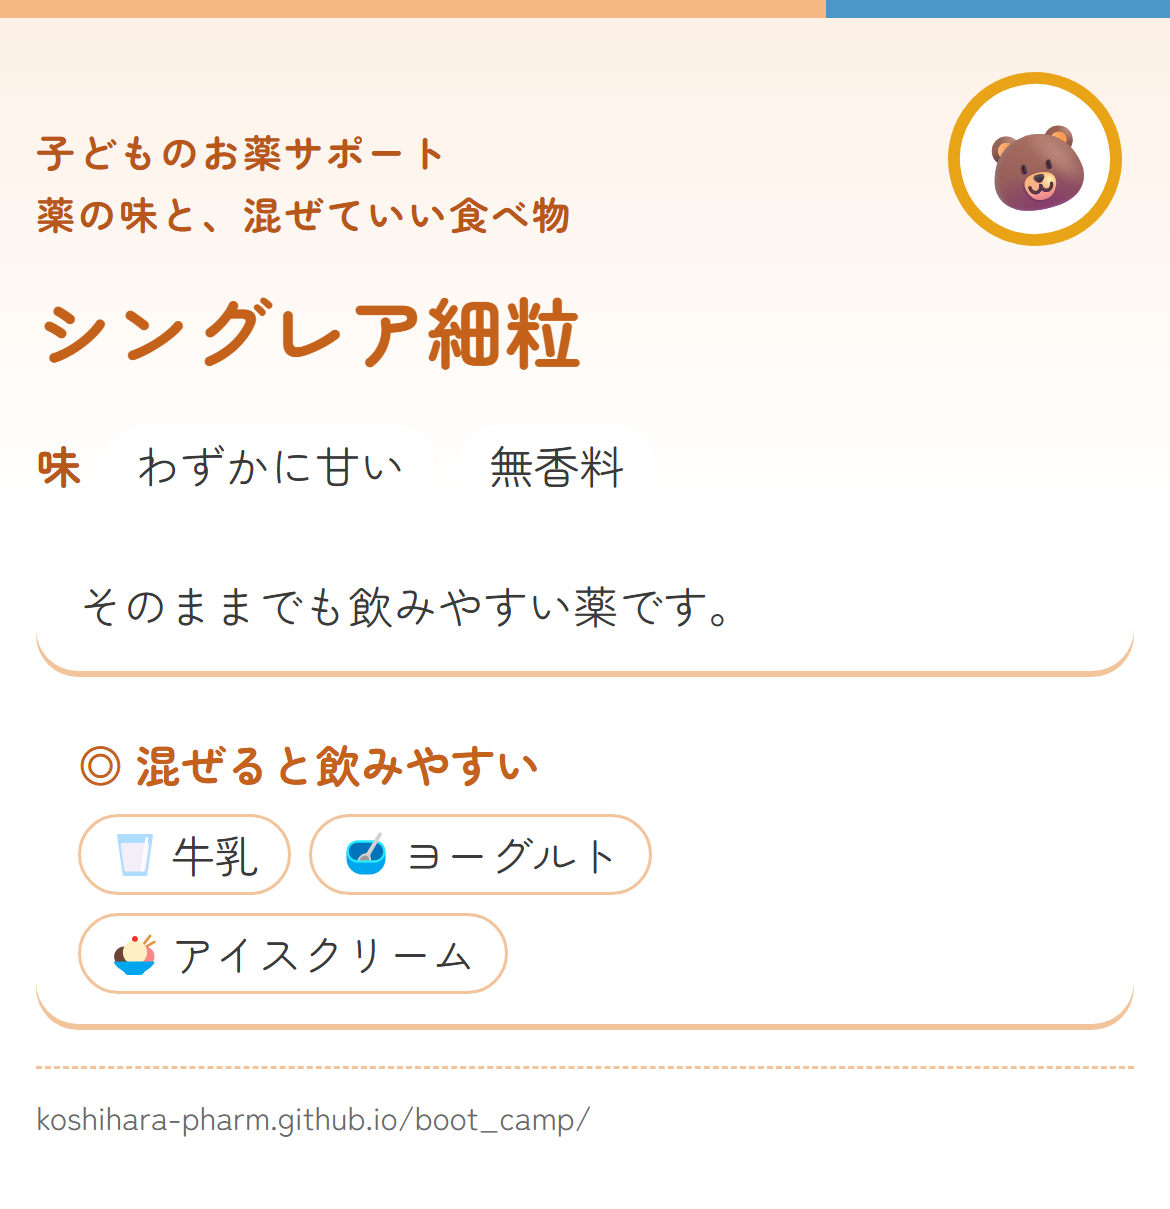
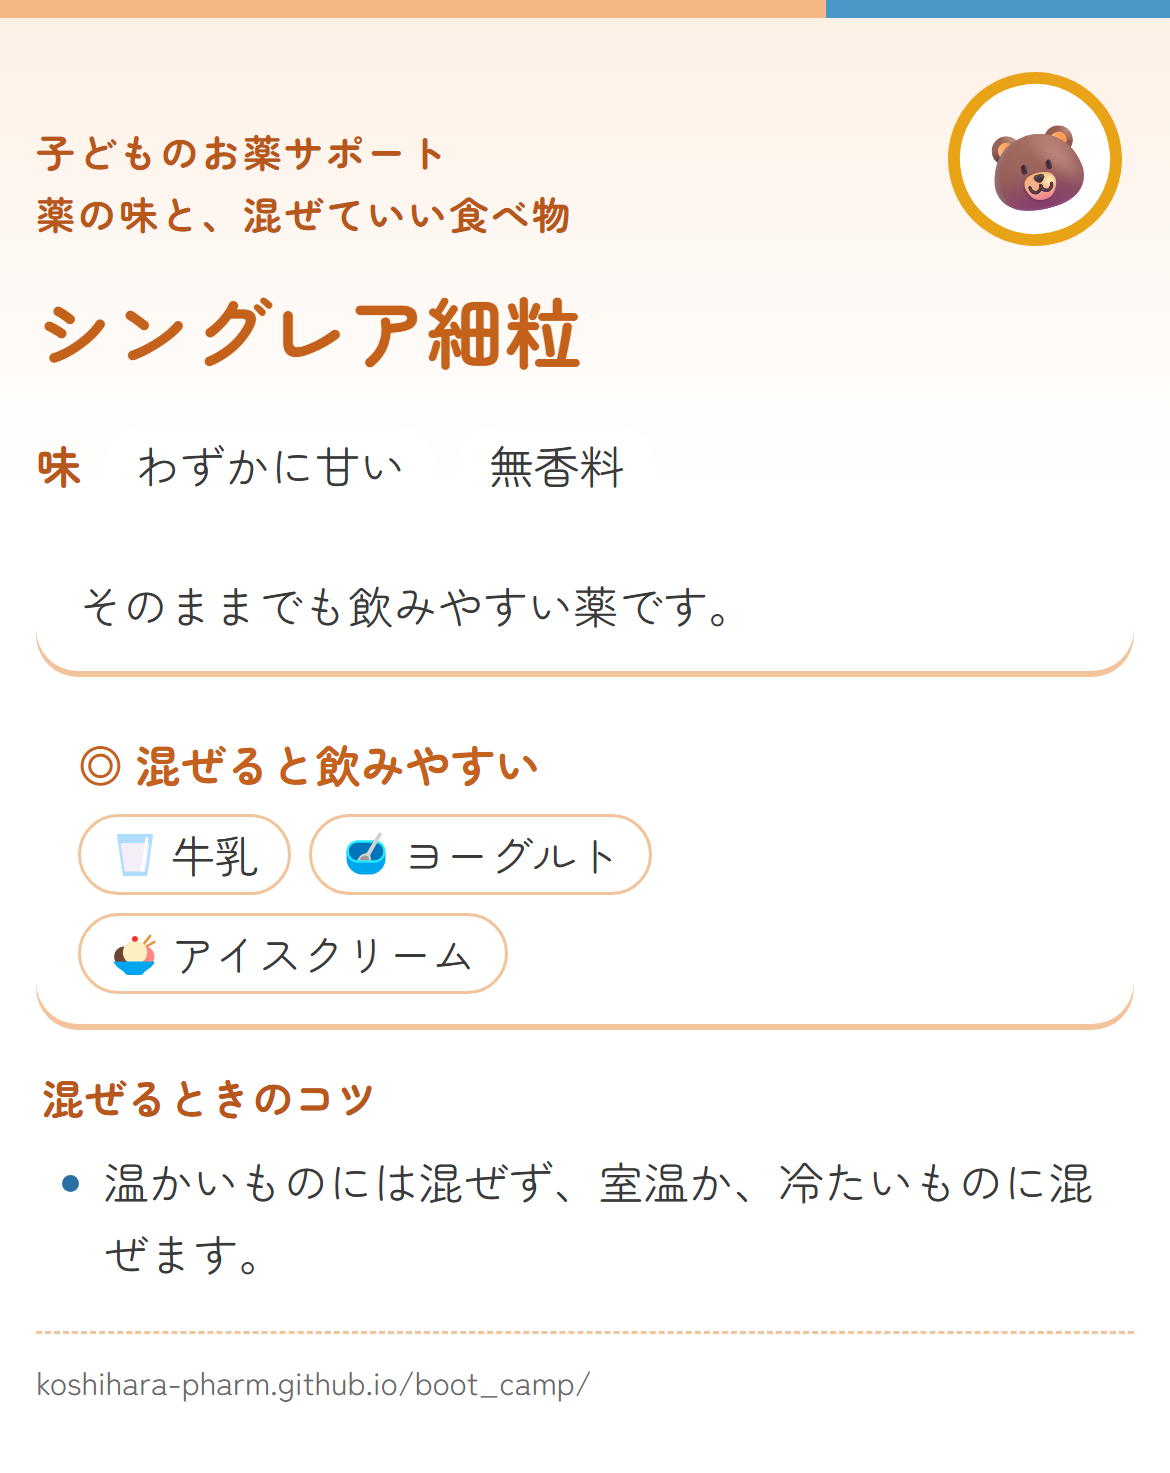
シングレア細粒とキプレス細粒のコツに「温かいものには混ぜない」を足す
取りこぼしの対応表で、薬剤師が「足す」と答えた（2026-11-27）。
シングレア細粒は帯広の表の備考、キプレス細粒は添付文書 14.1.2（室温以下の
ものと混ぜる）と、同じ成分のシングレア細粒の表の備考をもとにした。
保存用の画像（card/drug）の2枚も作り直した。

diff --git a/data.js b/data.js
@@ -367,6 +367,7 @@ const FACT_REFS = {
   kurumiMix: { name: "くるみ薬局「粉薬と食品の味ののみ合わせ一覧」（薬剤師の記事。2018-08-08）", url: "https://kurumi-pharmacy.jp/2018/08/08/%e7%b2%89%e8%96%ac%e3%81%a8%e9%a3%9f%e5%93%81%e3%81%ae%e5%91%b3%e3%81%ae%e3%81%ae%e3%81%bf%e5%90%88%e3%82%8f%e3%81%9b%e4%b8%80%e8%a6%a7/" },
   // 2026-11-09 に足した。帯広の表の記号: ○ 飲みやすい、△ ふつう・変わらない、× 飲みにくい（成育の ●▲× と同じ意味なので、○ を easy、△ を good にした）
   obihiro: { name: "帯広厚生病院 薬剤部「お薬の飲み合わせ表」（2024年12月）", url: "https://www.dou-kouseiren.com/byouin/obihiro/about/vt1bv7000000987n-att/fvprkl0000005bkm.pdf" },
+  kipresLabel: { name: "キプレス細粒4mg 添付文書（杏林製薬、2024年5月改訂 第2版）", url: "https://www.pmda.go.jp/PmdaSearch/iyakuDetail/231099_4490026C1021_2_04" },
   mucosolvanLabel: { name: "小児用ムコソルバンDS1.5% 添付文書（帝人ファーマ、2023年4月改訂 第1版）", url: "https://www.pmda.go.jp/PmdaSearch/iyakuDetail/470310_2239001R1072_1_08" },
   allelockLabel: { name: "アレロック顆粒0.5% 添付文書（協和キリン、2025年11月改訂 第2版）", url: "https://www.pmda.go.jp/PmdaSearch/iyakuDetail/530113_4490025D1022_2_01" },
   // ユーザー（薬剤師）の手元の本。URL は無い。版・発行年・出版社は未確認（ユーザーは奥付を送らないと決めた。2026-11-10）
@@ -910,16 +911,17 @@ const FACTS = {
   "キプレス細粒": {
     basis: "iizuka",
     point: "食べ物との相性は、参考にした資料には載っていません。",
-    tips: ["光に弱く、溶かしてから時間がたつと薬が分解されます。開けたら15分以内に飲みきります。"],
-    refs: ONE_TABLE_IIZUKA,
-    checked: CHECK_ONE_TABLE,
+    // 2026-11-27 に足した（取りこぼしの対応表で、薬剤師が「足す」と答えた）: 温かいものに混ぜない
+    tips: ["光に弱く、溶かしてから時間がたつと薬が分解されます。開けたら15分以内に飲みきります。", "温かいものには混ぜず、室温か、冷たいものに混ぜます。"],
+    refs: [...ONE_TABLE_IIZUKA, "kipresLabel", "obihiro"],
+    checked: "2026-10-18 に1つの病院の資料をもとにまとめました。2026-11-27 に、添付文書と、同じ成分のシングレア細粒の表の注意をもとに、コツを足しました（薬剤師の確認待ち）",
     // 中身ごとの出どころ（2026-11-16 に、飯塚（2026-10-13 に見比べた版）・成育（2018年の PDF）・くるみ薬局（2018-08-08）の表と照らし合わせて書いた。サイトの画面には出さない）
     why: {
       taste: [["iizuka", "わずかに甘い・無香料"]],
       point: [["iizuka", "食べ物の欄はすべて「－ データなし」"]],
       foods: {
       },
-      tips: [[["iizuka", "備考: 光に弱く、溶かしたあと時間がたつと分解される。開封後15分以内に飲み切る"]]],
+      tips: [[["iizuka", "備考: 光に弱く、溶かしたあと時間がたつと分解される。開封後15分以内に飲み切る"]], [["kipresLabel", "14.1.2 柔らかい食物や調製ミルク・母乳は、室温以下のものと混ぜる"], ["obihiro", "シングレア細粒の行の備考: あたたかいものに混ぜてはいけない（同じ成分の別の製品。添加剤は同じ。2026-11-26 に確かめた）"]]],
     },
   },
   "ザジテンドライシロップ": {
@@ -949,9 +951,10 @@ const FACTS = {
     point: "そのままでも飲みやすい薬です。",
     // 2026-11-22 に足した（取りこぼしの調べ。資料の印がぜんぶ同じ向きのものだけ）: ◎ アイスクリーム
     easy: { foods: ["牛乳", "ヨーグルト", "アイスクリーム"] },
-    tips: [TIP_JUST_BEFORE],
+    // 2026-11-27 に足した（取りこぼしの対応表で、薬剤師が「足す」と答えた）: 温かいものに混ぜない
+    tips: [TIP_JUST_BEFORE, "温かいものには混ぜず、室温か、冷たいものに混ぜます。"],
     refs: [...ONE_TABLE_NCCHD, "obihiro"],
-    checked: "2026-10-18 に1つの病院の資料をもとにまとめました。2026-11-22 に、ほかの資料の印がそろっている食べ物を足しました（薬剤師の確認待ち）",
+    checked: "2026-10-18 に1つの病院の資料をもとにまとめました。2026-11-22 に、ほかの資料の印がそろっている食べ物を足しました。2026-11-27 に、帯広の表の注意をもとに、コツを足しました（薬剤師の確認待ち）",
     // 中身ごとの出どころ（2026-11-16 に、飯塚（2026-10-13 に見比べた版）・成育（2018年の PDF）・くるみ薬局（2018-08-08）の表と照らし合わせて書いた。サイトの画面には出さない）
     why: {
       taste: [["ncchd", "わずかに甘い・無香料"]],
@@ -961,7 +964,7 @@ const FACTS = {
         "ヨーグルト": [["ncchd", "● 飲みやすい"]],
         "アイスクリーム": [["obihiro","○ 飲みやすい"]],
       },
-      tips: [[["pmdaQ8", ""], ["ncchd", "表の注意書き: 混ぜた薬はすぐに飲む"]]],
+      tips: [[["pmdaQ8", ""], ["ncchd", "表の注意書き: 混ぜた薬はすぐに飲む"]], [["obihiro", "備考: あたたかいものに混ぜてはいけない"], ["kipresLabel", "同じ成分のキプレス細粒の添付文書 14.1.2: 室温以下のものと混ぜる"]]],
     },
   },
   "セファクロル細粒": {

diff --git a/index.html b/index.html
@@ -427,7 +427,7 @@
 </dialog>
 
 <!-- data.js を直したら ?v= の日付も変える。古い data.js をブラウザが使い続けないようにするため -->
-<script src="data.js?v=2026-11-27a"></script>
+<script src="data.js?v=2026-11-27b"></script>
 <script>
 
   // ---- 小さな道具 ----
